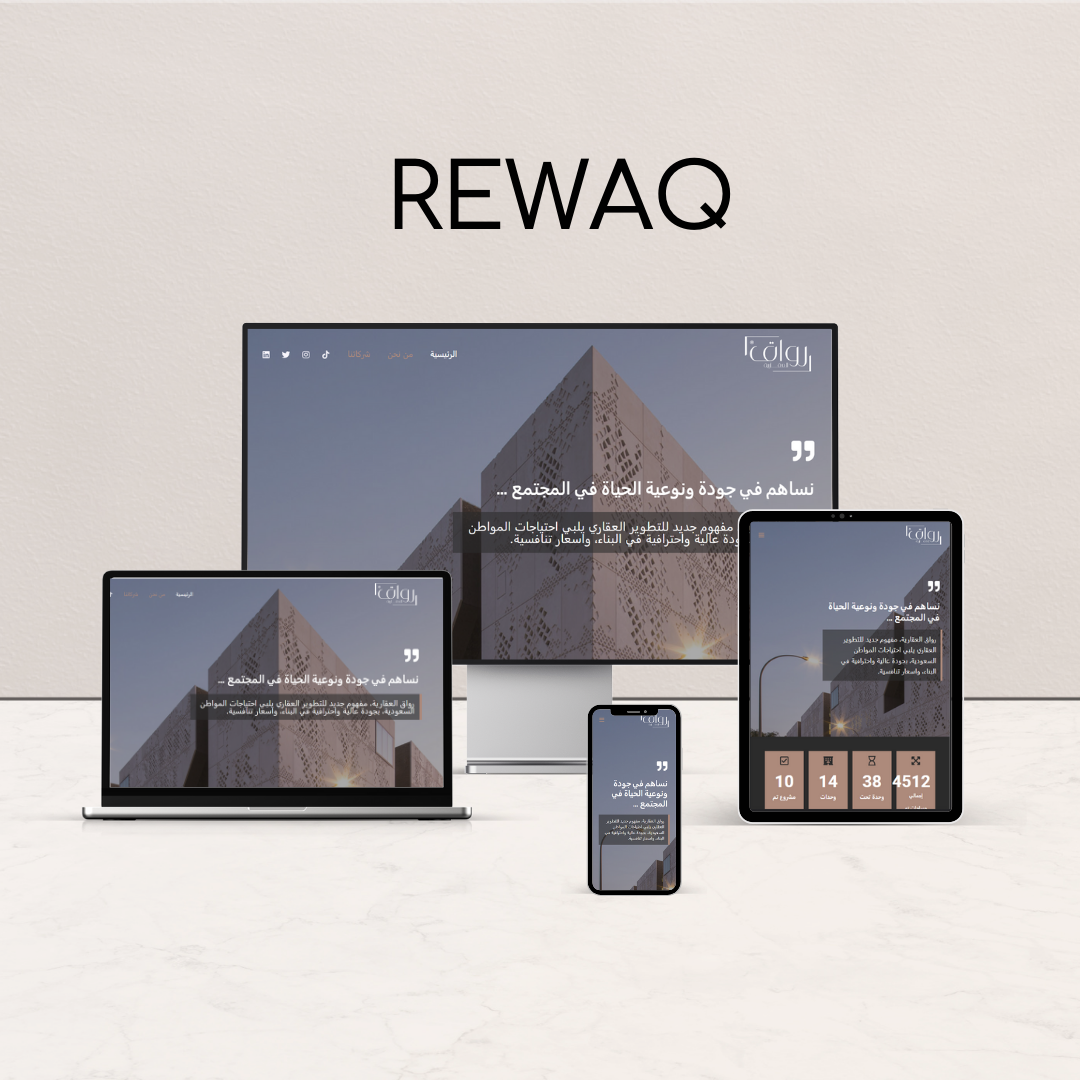
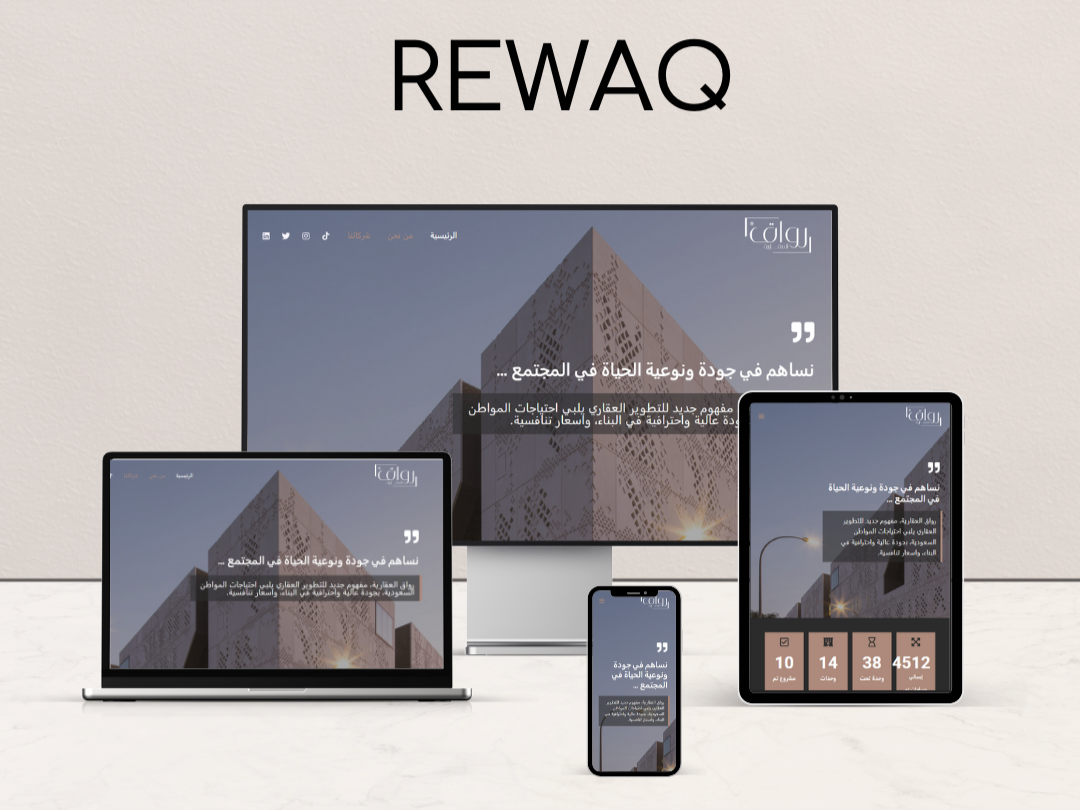
add hema and qema landing page

Changed region(s): [[0.0, 0.2469, 1.0, 0.9568], [0.3667, 0.0309, 0.6722, 0.216]]

diff --git a/index.html b/index.html
@@ -113,7 +113,7 @@
     <p class="section_header">Projects</p>
     <div class="projects_Container">
       <div class="project_card">
-        <img src="./imgs/rewaq.png" alt="The First full stack website ,I created using HML,CSS and JavaScript for frontend, In the side of Back end I used Node js ,express and mongo db as well as mongoose db, I learned I a lot of things such as how build RESTful API,CRUD operations on monogo db and fitch date in front end using AXIOS.">
+        <img src="./imgs/hema.png" alt="The First full stack website ,I created using HML,CSS and JavaScript for frontend, In the side of Back end I used Node js ,express and mongo db as well as mongoose db, I learned I a lot of things such as how build RESTful API,CRUD operations on monogo db and fitch date in front end using AXIOS.">
       <div class="project_info">
         <h3>Qema And Hema</h3>
         <p>
